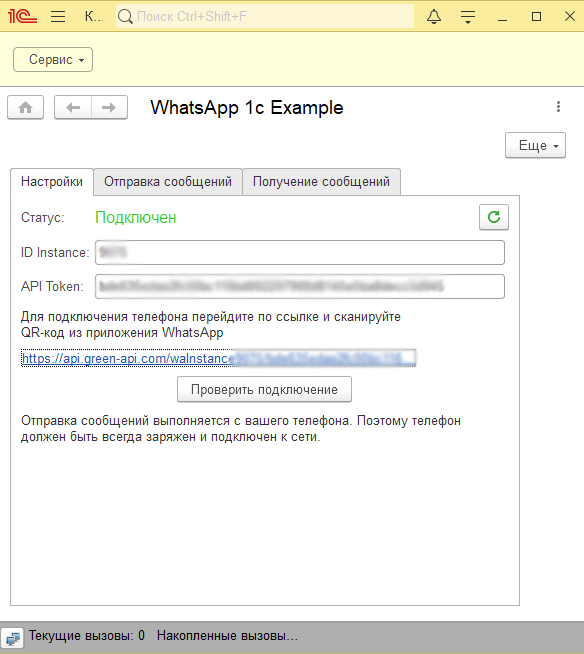
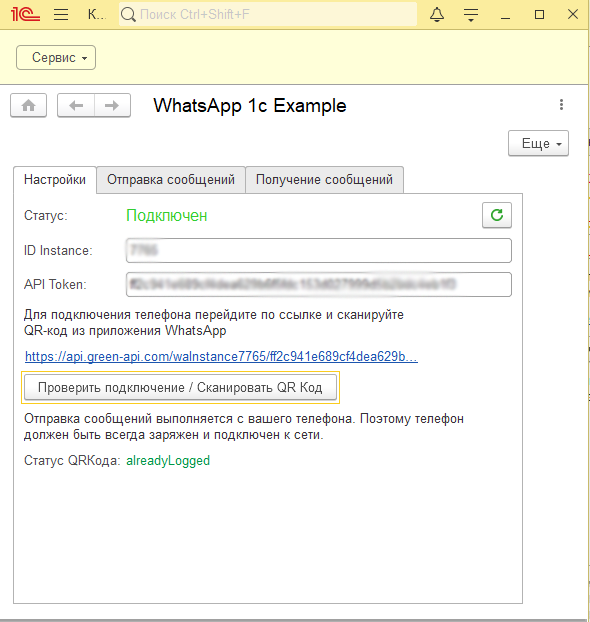
GR-129 Получение QR-кода в интерфейсе браузера

Changed region(s): [[0.0, 0.0, 1.0, 1.0]]

diff --git a/README.md b/README.md
@@ -14,8 +14,8 @@
 1. Подключиться к сервису [green-api.com](https://green-api.com/) и получить ``API Token`` и ``ID Instance``
 1. [Скачать обработку](https://github.com/green-api/whatsapp-1c-example/releases/download/1.0/WhatsApp1cExample.epf) в формате epf
 3. Запустить в браузере или тонком клиенте и указать параметры подключения (``API Token`` и ``ID Instance``)
-4. Перейти по ссылке генерации QR кода и авторизовать аккаунт
-6. В форме обработки нажать кнопку ``Проверить подключение``. Поле формы статус должно изменится на "Подключен"
+4. Сканировать QR код с мобильного телефона WhatsApp (Меню чаты -> Иконка всех функций -> WhatsApp Web)
+6. В форме обработки нажать кнопку ``Проверить подключение / Сканировать QR Код``. Поле формы статус должно изменится на "Подключен"
 
 ![`Отправка сообщения`](media/Login.png)
 
